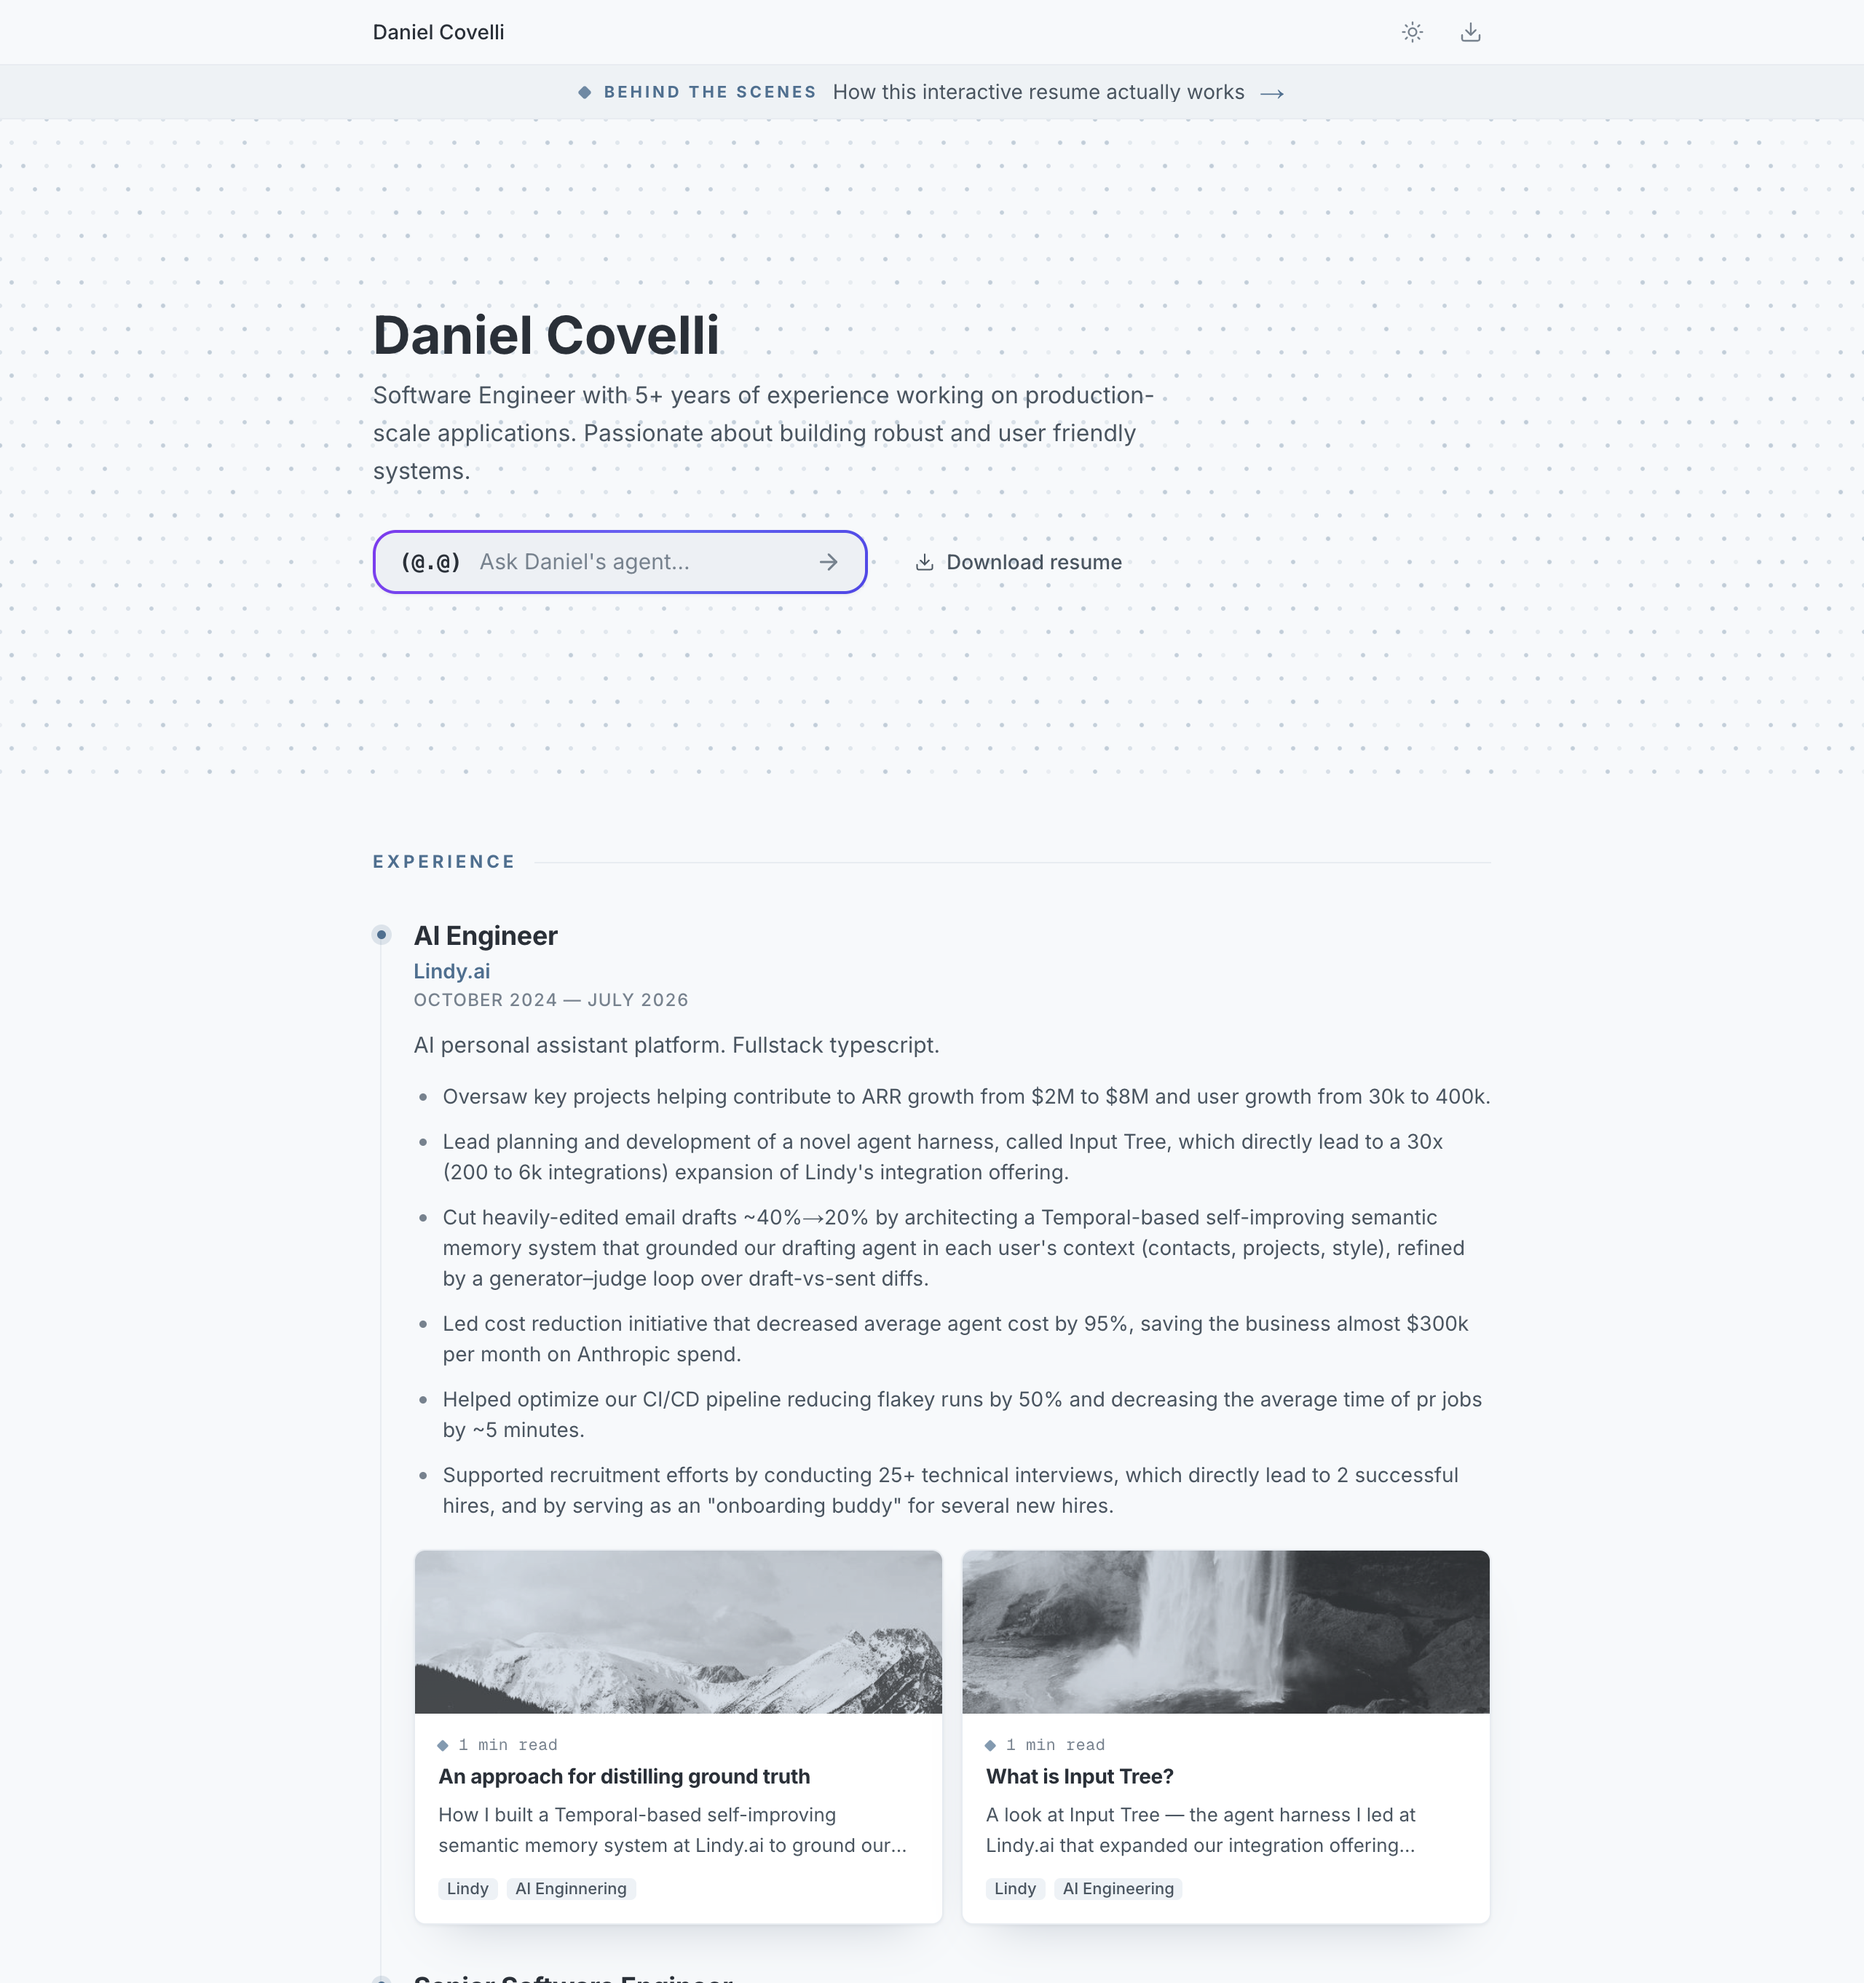
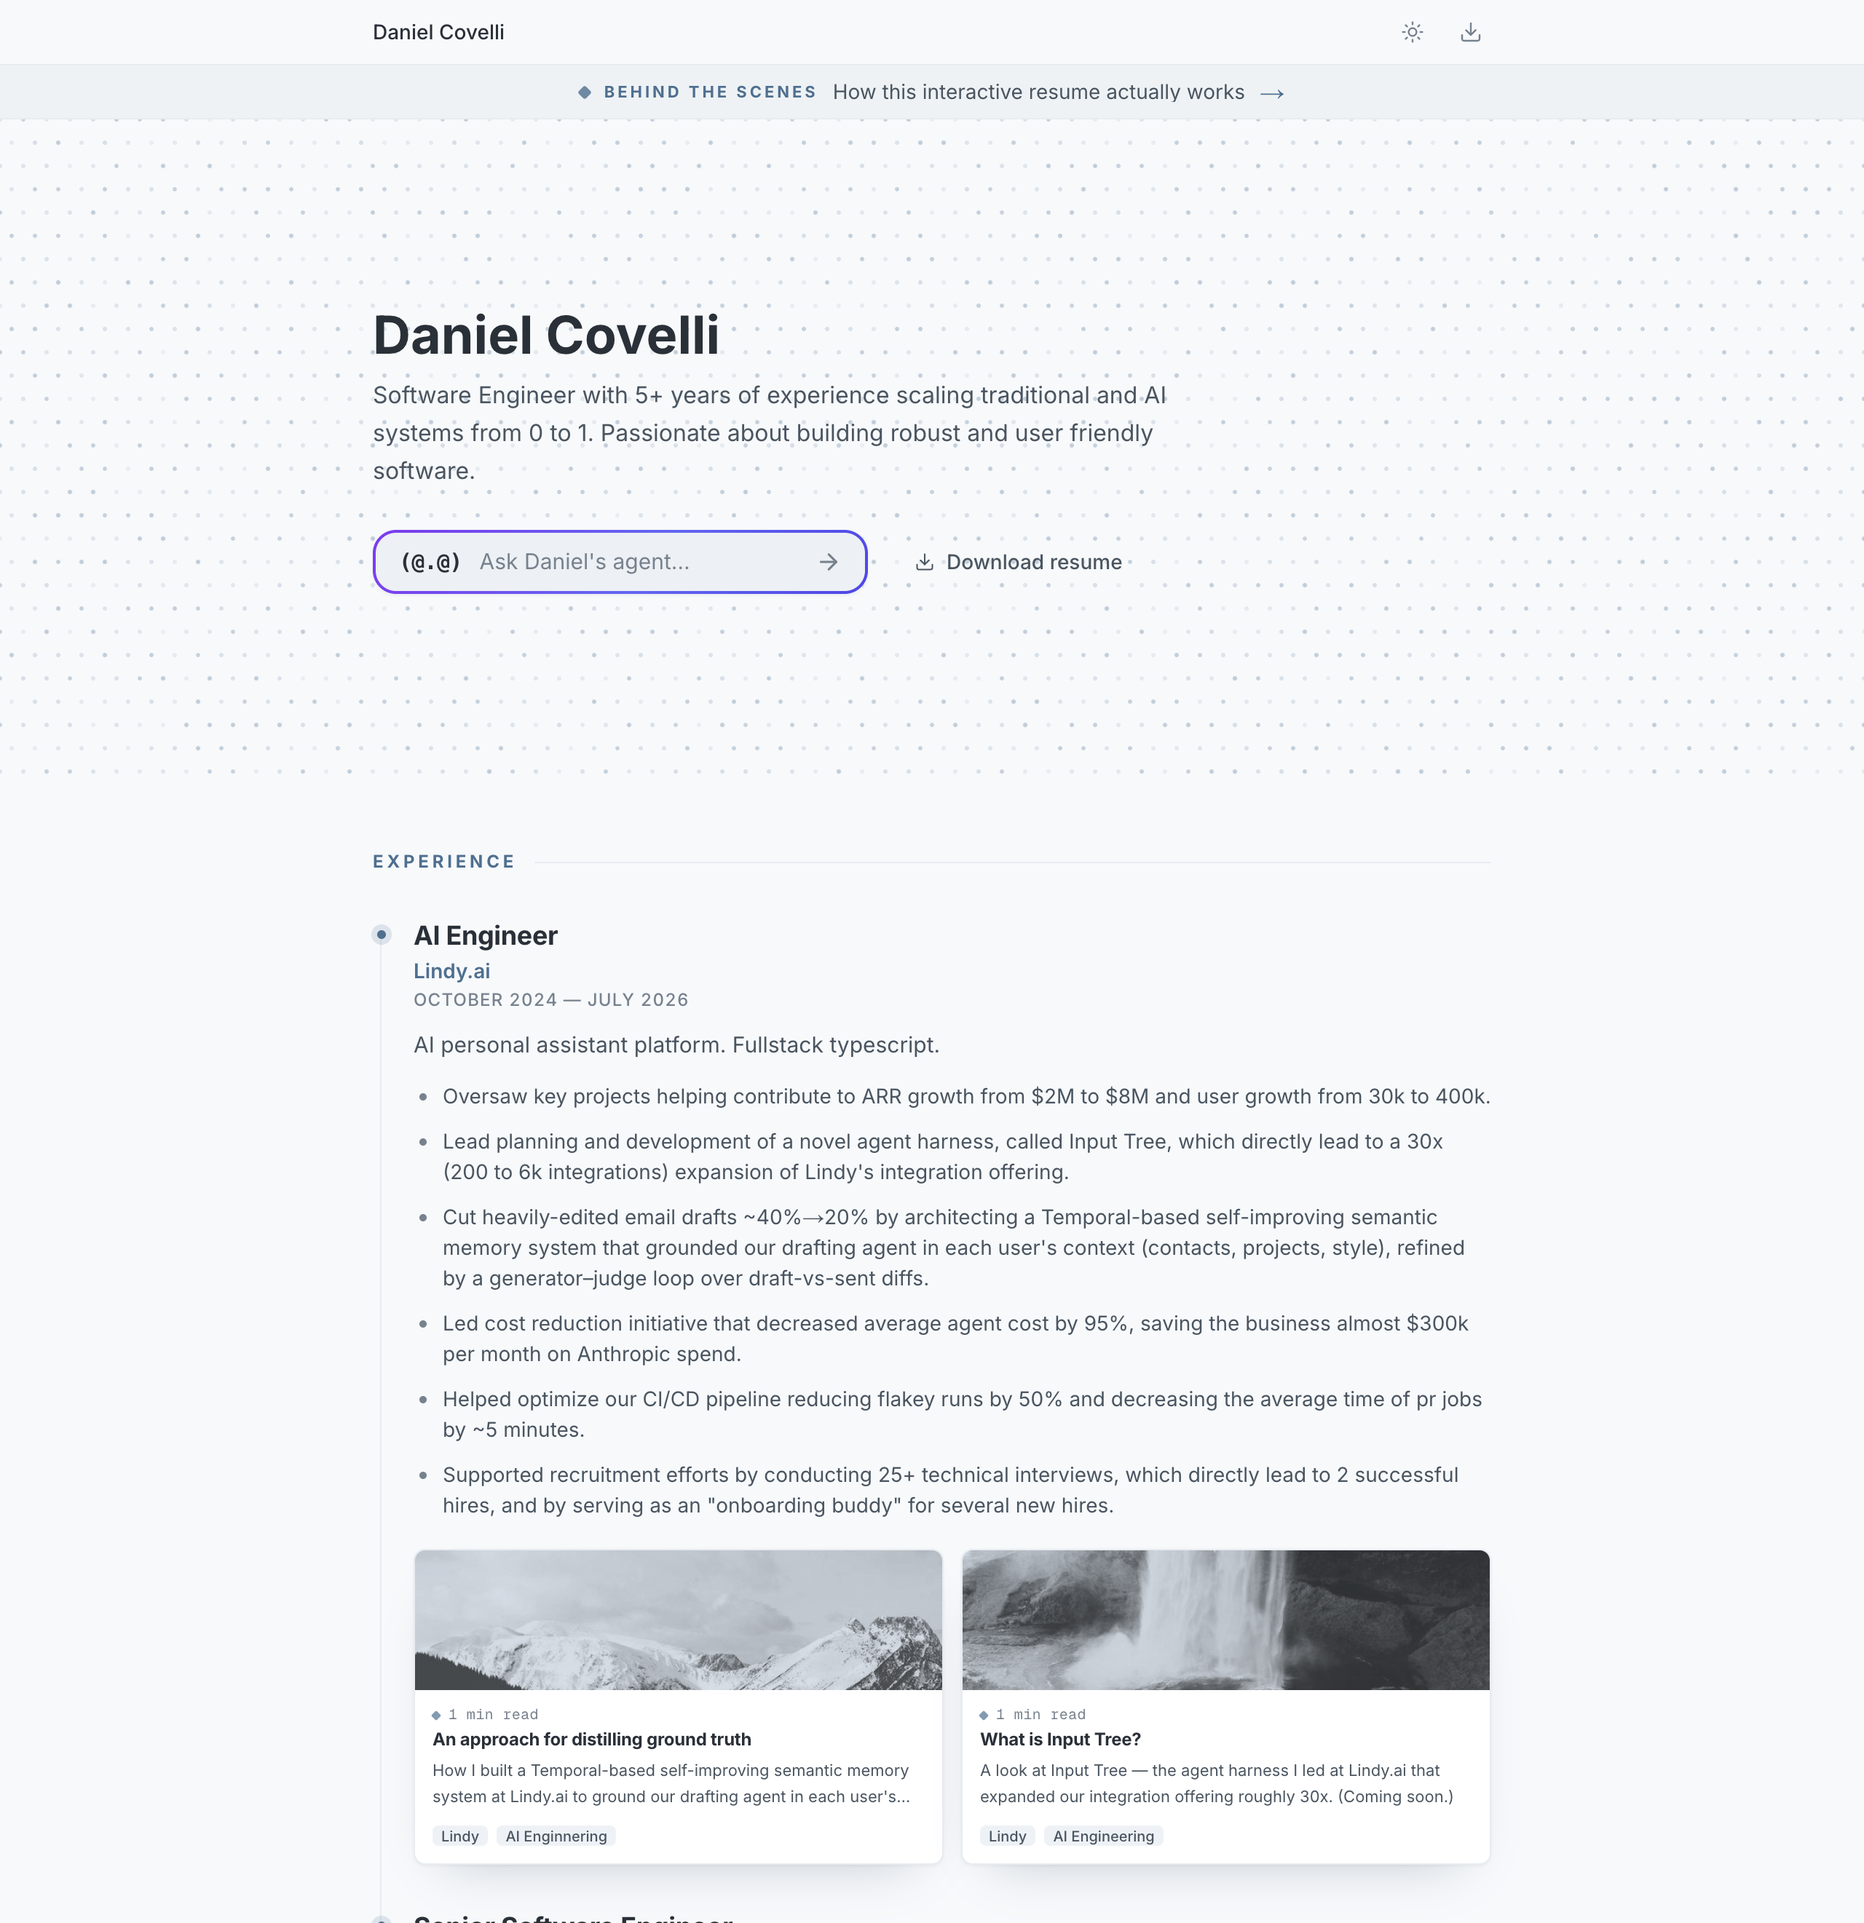
style(field-notes): slim down the experience cards ~15%
Smaller cover (h-28 -> h-24), tighter padding (p-4 -> p-3), and a step down in
type (title 14 -> 12px, summary 13 -> 11px, meta/tags 11 -> 10px) so the card
grid takes less vertical room under an experience.

diff --git a/components/articles/FieldNoteCard.tsx b/components/articles/FieldNoteCard.tsx
@@ -29,7 +29,7 @@ export default function FieldNoteCard({ article }: FieldNoteCardProps) {
       href={`/articles/${article.slug}`}
       className="group flex flex-col overflow-hidden rounded-lg border border-hair bg-panel shadow-soft transition-all hover:-translate-y-0.5 hover:shadow-lg focus-visible:outline-none focus-visible:ring-2 focus-visible:ring-brand focus-visible:ring-offset-2 focus-visible:ring-offset-surface"
     >
-      <div className="relative h-28 w-full overflow-hidden bg-gradient-to-br from-brand/30 to-brand/10">
+      <div className="relative h-24 w-full overflow-hidden bg-gradient-to-br from-brand/30 to-brand/10">
         <div
           aria-hidden
           className="absolute inset-0 bg-cover bg-center opacity-80 grayscale transition-transform duration-500 group-hover:scale-105"
@@ -40,28 +40,28 @@ export default function FieldNoteCard({ article }: FieldNoteCardProps) {
           className="absolute inset-0 bg-brand/20 mix-blend-multiply"
         />
       </div>
-      <div className="flex flex-1 flex-col p-4">
-        <div className="mb-1.5 flex items-center gap-2">
+      <div className="flex flex-1 flex-col p-3">
+        <div className="mb-1 flex items-center gap-1.5">
           <span
             aria-hidden
-            className="h-[6px] w-[6px] rotate-45 rounded-[1px] bg-brand/70"
+            className="h-[5px] w-[5px] rotate-45 rounded-[1px] bg-brand/70"
           />
-          <span className="font-data text-[11px] leading-none tracking-[0.02em] text-subtle">
+          <span className="font-data text-[10px] leading-none tracking-[0.02em] text-subtle">
             {readingTimeMinutes(article.body)} min read
           </span>
         </div>
-        <h4 className="text-sm font-bold leading-snug tracking-[-0.01em] text-ink transition-colors group-hover:text-brand">
+        <h4 className="text-xs font-bold leading-snug tracking-[-0.01em] text-ink transition-colors group-hover:text-brand">
           {article.title}
         </h4>
-        <p className="mt-1.5 line-clamp-2 flex-1 text-[13px] leading-relaxed text-body">
+        <p className="mt-1 line-clamp-2 flex-1 text-[11px] leading-relaxed text-body">
           {article.summary}
         </p>
         {article.tags.length ? (
-          <div className="mt-3 flex flex-wrap gap-1.5">
+          <div className="mt-2.5 flex flex-wrap gap-1.5">
             {article.tags.map((tag) => (
               <span
                 key={tag}
-                className="rounded bg-chip px-1.5 py-0.5 text-[11px] font-medium leading-none text-chip-fg"
+                className="rounded bg-chip px-1.5 py-0.5 text-[10px] font-medium leading-none text-chip-fg"
               >
                 {tag}
               </span>
